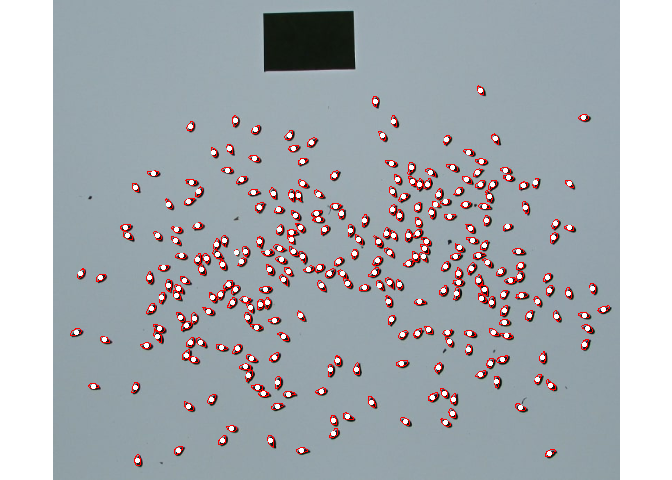
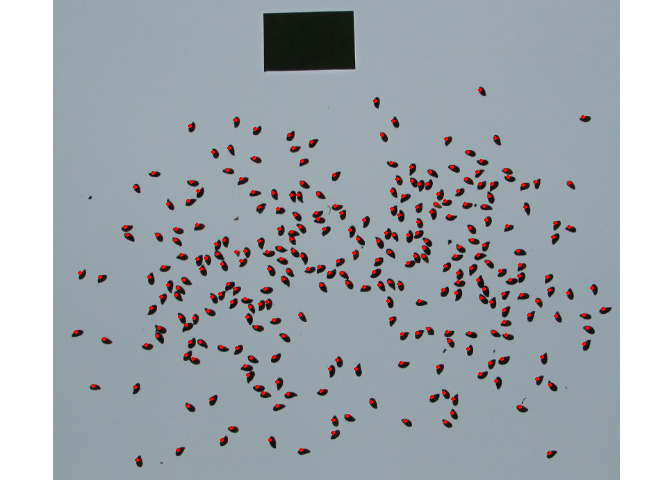
prepare for v2.0.0

diff --git a/README.md b/README.md
@@ -89,7 +89,10 @@ flax <-
                   reference = TRUE,
                   reference_larger = TRUE,
                   reference_area = 6,
-                  marker = "point")
+                  marker = "point",
+                  marker_size = 0.5,
+                  marker_col = "red", # default is white
+                  show_contour = FALSE) # default is TRUE
 ```
 
 <img src="man/figures/README-unnamed-chunk-4-1.png" width="100%" />
@@ -127,7 +130,6 @@ one of the 12 soybean plots.
 shp <- image_pliman("field_mosaic.jpg")
 res <- 
   analyze_objects_shp(shp, 
-                      prepare = FALSE, # it is already aligned and cropped
                       ncol = 12,
                       nrow = 1,
                       index = "HUE", # used to segment the soil
@@ -196,6 +198,8 @@ disease measurement.
 
 ``` r
 img <- image_pliman("sev_leaf.jpg", plot = TRUE)
+
+# works only in an interactive section
 measure_disease_iter(img, viewer = "mapview")
 ```
 
